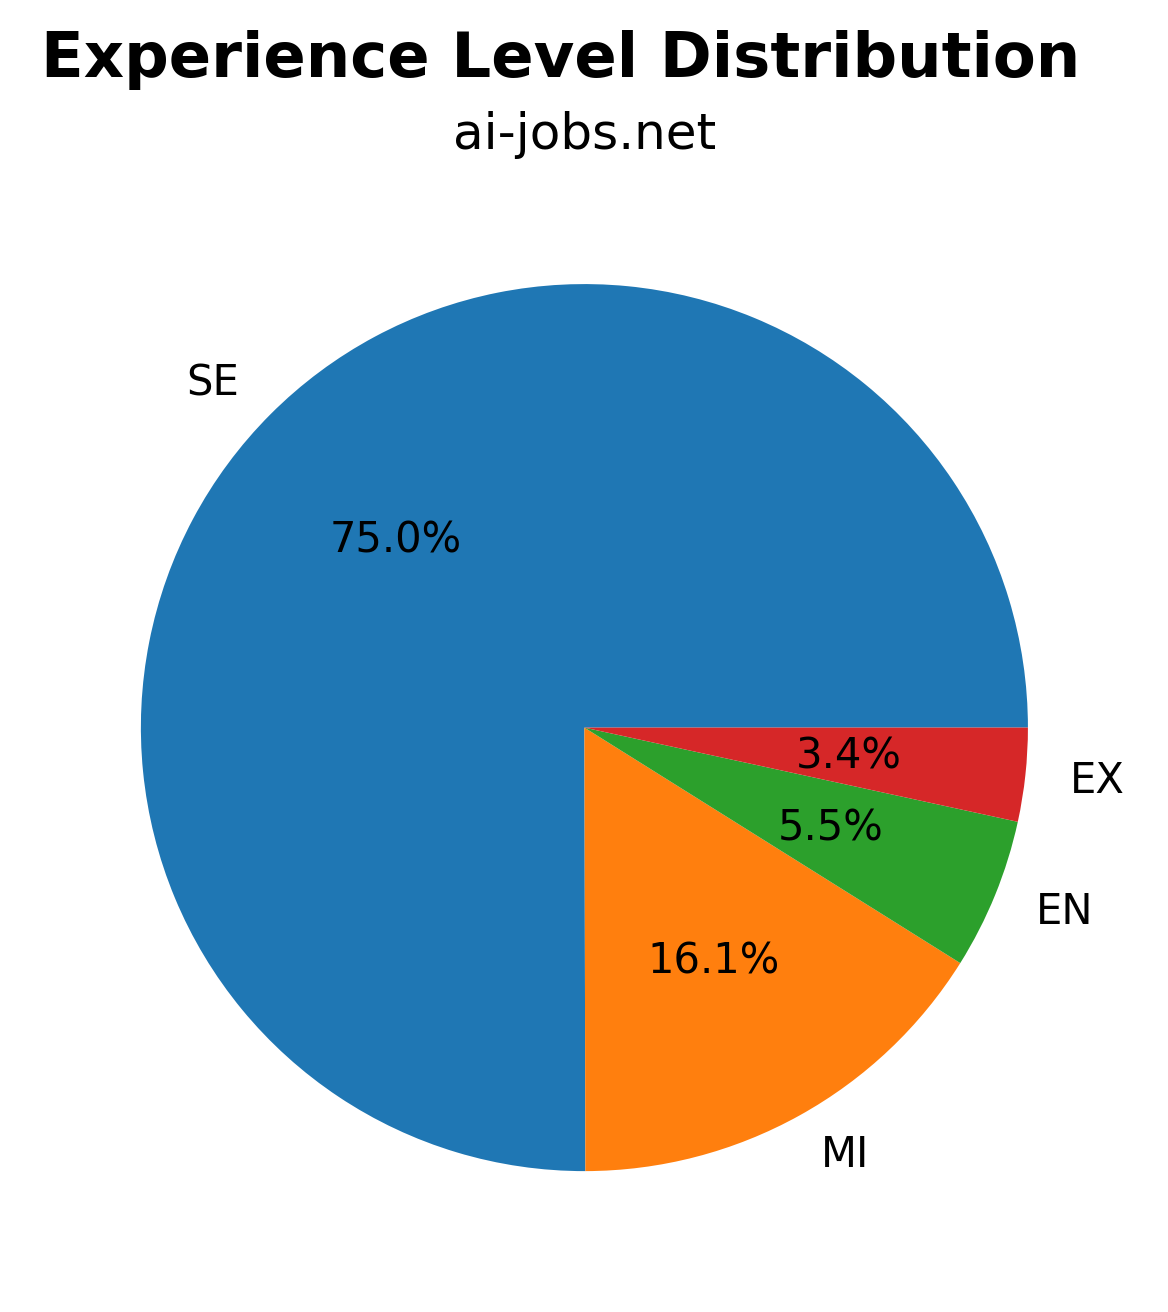
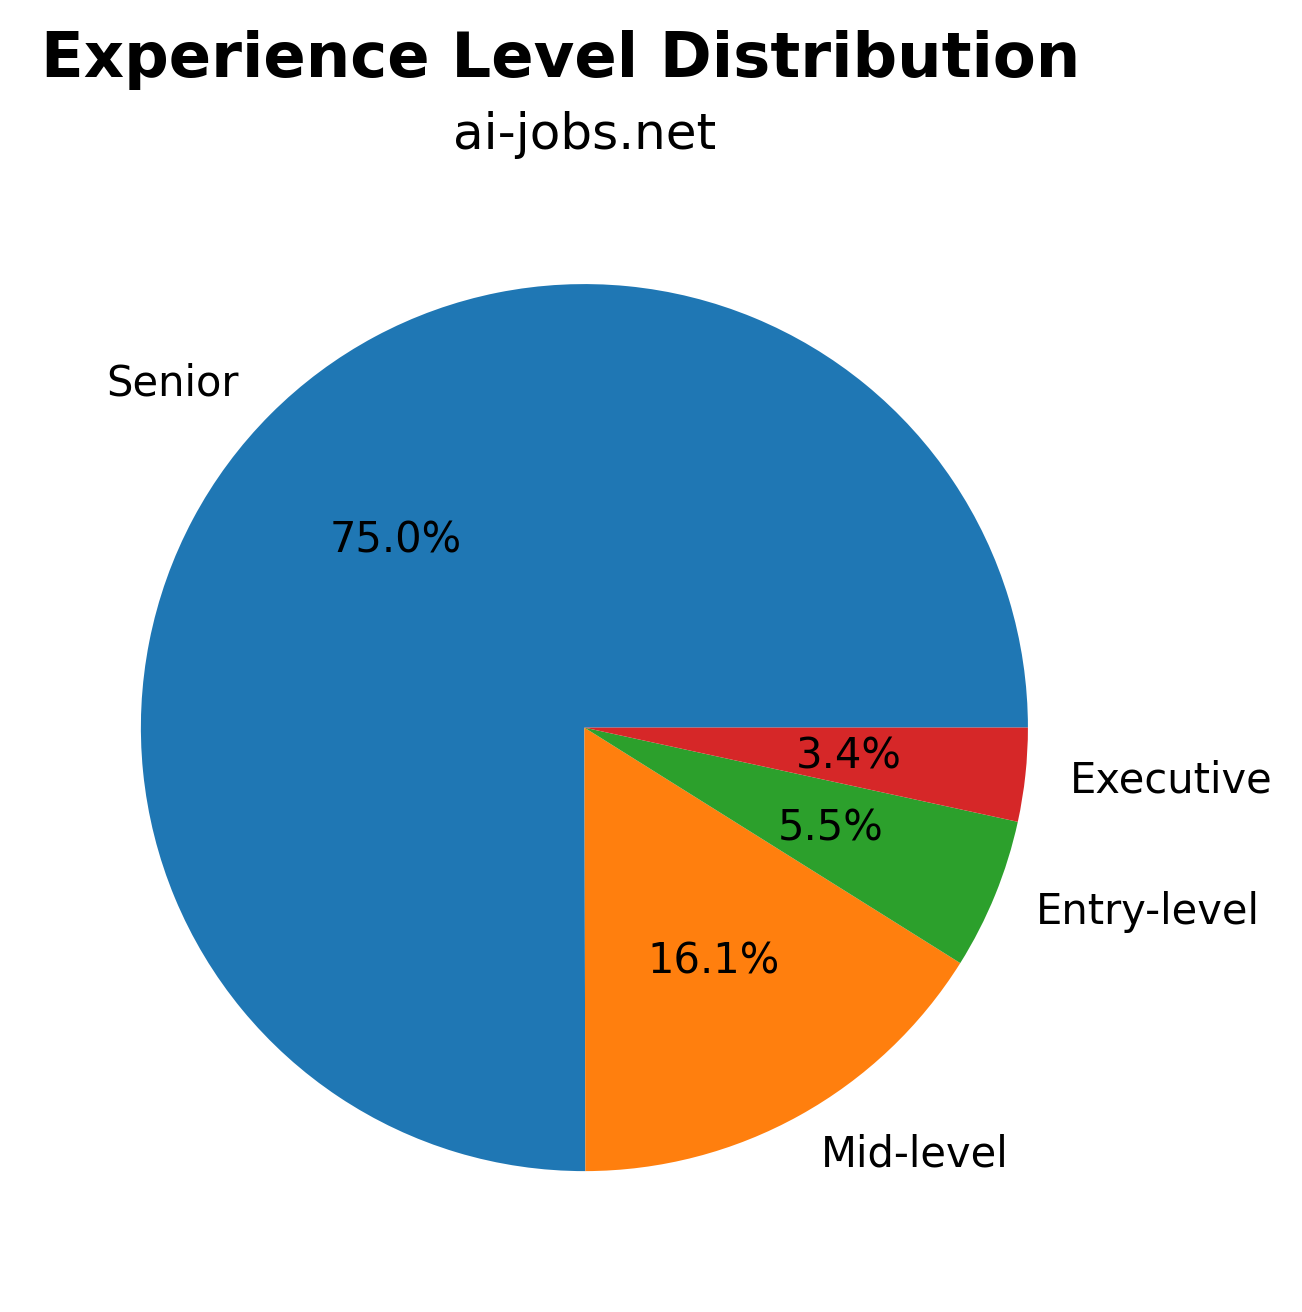
Add changable title

diff --git a/main.py b/main.py
@@ -9,6 +9,7 @@ from money_per_experience_full_time import money_per_experience_full_time_plot
 from salary_increase_absolut_numbers_line import save_salary_increase_absolut_numbers_line_plot
 from salary_increase_absolut_numbers_scatter import save_salary_increase_absolut_numbers_scatter_plot
 from salary_increase_percentage_lines import save_salary_increase_percentage_lines_plot
+from salary_increase_percentage_scatter import save_salary_increase_percentage_scatter_plot
 
 data = us_filtered_data_with_others()
 filename = 'pngs/us_experience_distribution.png'
@@ -16,7 +17,7 @@ save_experience_distribution_plot(data, filename)
 
 data = non_us_filtered_data_with_others()
 filename = 'pngs/non_us_experience_distribution.png'
-save_experience_distribution_plot(data, filename)
+save_experience_distribution_plot(data, filename, 'Stichproben')
 
 data = us_filtered_data_with_others()
 filename = 'pngs/us_job_title_distribution.png'
@@ -24,7 +25,7 @@ save_job_title_distribution_plot(data, filename)
 
 data = non_us_filtered_data_with_others()
 filename = 'pngs/non_us_job_title_distribution.png'
-save_job_title_distribution_plot(data, filename)
+save_job_title_distribution_plot(data, filename, 'Stichproben')
 
 data = us_filtered_data()
 filename = 'pngs/us_money_per_experience_full_time.png'
@@ -32,7 +33,7 @@ money_per_experience_full_time_plot(data, filename)
 
 data = non_us_filtered_data()
 filename = 'pngs/non_us_money_per_experience_full_time.png'
-money_per_experience_full_time_plot(data, filename)
+money_per_experience_full_time_plot(data, filename, 'Stichproben')
 
 data = us_filtered_data_with_others()
 filename = 'pngs/us_salary_increase_absolut_numbers_line.png'
@@ -40,7 +41,7 @@ save_salary_increase_absolut_numbers_line_plot(data, filename)
 
 data = non_us_filtered_data_with_others()
 filename = 'pngs/non_us_salary_increase_absolut_numbers_line.png'
-save_salary_increase_absolut_numbers_line_plot(data, filename)
+save_salary_increase_absolut_numbers_line_plot(data, filename, 'Stichproben')
 
 data = us_filtered_data_with_others()
 filename = 'pngs/us_salary_increase_absolut_numbers_scatter.png'
@@ -48,7 +49,7 @@ save_salary_increase_absolut_numbers_scatter_plot(data, filename)
 
 data = non_us_filtered_data_with_others()
 filename = 'pngs/non_us_salary_increase_absolut_numbers_scatter.png'
-save_salary_increase_absolut_numbers_scatter_plot(data, filename)
+save_salary_increase_absolut_numbers_scatter_plot(data, filename, 'Stichproben')
 
 data = us_filtered_data_with_others()
 filename = 'pngs/us_salary_increase_percentage_lines.png'
@@ -56,13 +57,12 @@ save_salary_increase_percentage_lines_plot(data, filename)
 
 data = non_us_filtered_data_with_others()
 filename = 'pngs/non_us_salary_increase_percentage_lines.png'
-save_salary_increase_percentage_lines_plot(data, filename)
+save_salary_increase_percentage_lines_plot(data, filename, 'Stichproben')
 
 data = us_filtered_data_with_others()
 filename = 'pngs/us_salary_increase_percentage_scatter.png'
-save_salary_increase_absolut_numbers_line_plot(data, filename)
+save_salary_increase_percentage_scatter_plot(data, filename)
 
 data = non_us_filtered_data_with_others()
 filename = 'pngs/non_us_salary_increase_percentage_scatter.png'
-save_salary_increase_absolut_numbers_line_plot(data, filename)
-
+save_salary_increase_percentage_scatter_plot(data, filename, 'Stichproben')

diff --git a/experience_level_distribution.py b/experience_level_distribution.py
@@ -1,9 +1,8 @@
 import pandas as pd
-import re
 import matplotlib.pyplot as plt
 
 
-def save_experience_distribution_plot(data, filename):
+def save_experience_distribution_plot(data, filename, title='ai-jobs.net'):
     plt.figure()
 
     # Calculate the experience level percentages
@@ -14,15 +13,24 @@ def save_experience_distribution_plot(data, filename):
     # Sort experience levels by percentage in descending order
     sorted_experience_levels = experience_percentages.sort_values(ascending=False)
 
-    # Calculate the percentage labels for the pie chart
-    percent_labels = [f'{level}' for level, percentage in zip(sorted_experience_levels.index, sorted_experience_levels)]
+    # Define the mapping for experience level categories
+    mapping = {
+        "SE": "Senior",
+        "EX": "Executive",
+        "EN": "Entry-level",
+        "MI": "Mid-level"
+    }
+
+    # Map the experience level categories to the desired labels
+    percent_labels = [mapping.get(level, level) for level in sorted_experience_levels.index]
 
     # Create the pie chart
     plt.pie(sorted_experience_levels, labels=percent_labels, autopct=lambda pct: f'{pct:.1f}%')
 
     # Set the title and subtitle
-    plt.title('ai-jobs.net', fontsize=12)
+    plt.title(title, fontsize=12)
     plt.suptitle('Experience Level Distribution', fontsize=15, fontweight='bold')  # Adjust fontsize, fontweight, and y position as needed
 
     # Save the chart as PNG file
     plt.savefig(filename, dpi=300, bbox_inches='tight')
+

diff --git a/salary_increase_percentage_scatter.py b/salary_increase_percentage_scatter.py
@@ -4,7 +4,7 @@ import matplotlib.pyplot as plt
 from adjustText import adjust_text
 
 
-def save_salary_increase_percentage_scatter_plot(data, filename):
+def save_salary_increase_percentage_scatter_plot(data, filename, title='ai-jobs.net'):
     plt.figure()
 
     # Calculate the average salary for each year and job title
@@ -28,7 +28,7 @@ def save_salary_increase_percentage_scatter_plot(data, filename):
     # Set the labels and title
     plt.xlabel('Year', fontsize=14)
     plt.ylabel('Salary Increase Percentage', fontsize=14)
-    plt.title('ai-jobs.net', fontsize=12)
+    plt.title(title, fontsize=12)
     plt.suptitle('Salary Increase Percentage per Year by Job Title', fontsize=15,
                  fontweight='bold')  # Adjust fontsize, fontweight, and y position as needed
 
@@ -43,3 +43,4 @@ def save_salary_increase_percentage_scatter_plot(data, filename):
 
     # Save the chart as PNG file
     plt.savefig(filename, dpi=300, bbox_inches='tight')
+

diff --git a/salary_increase_absolut_numbers_scatter.py b/salary_increase_absolut_numbers_scatter.py
@@ -3,7 +3,7 @@ import re
 import matplotlib.pyplot as plt
 from adjustText import adjust_text
 
-def save_salary_increase_absolut_numbers_scatter_plot(data, filename):
+def save_salary_increase_absolut_numbers_scatter_plot(data, filename, title='ai-jobs.net'):
     plt.figure()
 
     # Calculate the average salary for each year and job title
@@ -36,7 +36,7 @@ def save_salary_increase_absolut_numbers_scatter_plot(data, filename):
     # Set the labels and title
     plt.xlabel('Year', fontsize=14)
     plt.ylabel('Salary Increase (USD)', fontsize=14)
-    plt.title('ai-jobs.net', fontsize=12)
+    plt.title(title, fontsize=12)
     plt.suptitle('Salary Increase per Year by Job Title', fontsize=15, fontweight='bold')  # Adjust fontsize, fontweight, and y position as needed
 
     # Set the X-axis ticks to one year intervals

diff --git a/salary_increase_absolut_numbers_line.py b/salary_increase_absolut_numbers_line.py
@@ -3,7 +3,7 @@ import re
 import matplotlib.pyplot as plt
 from adjustText import adjust_text
 
-def save_salary_increase_absolut_numbers_line_plot(data, filename):
+def save_salary_increase_absolut_numbers_line_plot(data, filename, title='ai-jobs.net'):
     plt.figure()
 
     # Calculate the average salary for each year and job title
@@ -36,7 +36,7 @@ def save_salary_increase_absolut_numbers_line_plot(data, filename):
     # Set the labels and title
     plt.xlabel('Year', fontsize=14)
     plt.ylabel('Salary Increase (USD)', fontsize=14)
-    plt.title('ai-jobs.net', fontsize=12)
+    plt.title(title, fontsize=12)
     plt.suptitle('Salary Increase per Year by Job Title', fontsize=15, fontweight='bold')  # Adjust fontsize, fontweight, and y position as needed
 
     # Set the X-axis ticks to one year intervals

diff --git a/salary_increase_percentage_lines.py b/salary_increase_percentage_lines.py
@@ -3,7 +3,7 @@ import re
 import matplotlib.pyplot as plt
 from adjustText import adjust_text
 
-def save_salary_increase_percentage_lines_plot(data, filename):
+def save_salary_increase_percentage_lines_plot(data, filename, title='ai-jobs.net'):
     plt.figure()
 
     # Calculate the average salary for each year and job title
@@ -27,7 +27,7 @@ def save_salary_increase_percentage_lines_plot(data, filename):
     # Set the labels and title
     plt.xlabel('Year', fontsize=14)
     plt.ylabel('Salary Increase Percentage', fontsize=14)
-    plt.title('ai-jobs.net', fontsize=12)
+    plt.title(title, fontsize=12)
     plt.suptitle('Salary Increase Percentage per Year by Job Title', fontsize=15,
                  fontweight='bold')  # Adjust fontsize, fontweight, and y position as needed
 

diff --git a/money_per_experience_full_time.py b/money_per_experience_full_time.py
@@ -2,7 +2,7 @@ import pandas as pd
 import matplotlib.pyplot as plt
 
 
-def money_per_experience_full_time_plot(data, filename):
+def money_per_experience_full_time_plot(data, filename, title='ai-jobs.net'):
     plt.figure()
 
     # Define the desired order of experience levels
@@ -20,7 +20,7 @@ def money_per_experience_full_time_plot(data, filename):
     # Set the labels and title
     plt.xlabel('Year')
     plt.ylabel('Average Salary')
-    plt.title('ai-jobs.net', fontsize=12)
+    plt.title(title, fontsize=12)
     plt.suptitle('Full Time Salaries by Experience Level for Each Year', fontsize=15, fontweight='bold')  # Adjust fontsize, fontweight, and y position as needed
 
     # Add labels for the bars

diff --git a/job_title_distribution.py b/job_title_distribution.py
@@ -3,7 +3,7 @@ import re
 import matplotlib.pyplot as plt
 
 
-def save_job_title_distribution_plot(data, filename):
+def save_job_title_distribution_plot(data, filename, title='ai-jobs.net'):
     plt.figure()
 
     # Calculate the job title percentages
@@ -23,7 +23,7 @@ def save_job_title_distribution_plot(data, filename):
     plt.pie(sorted_job_titles, labels=percent_labels, autopct=lambda pct: f'{pct:.1f}%')
 
     # Set the title
-    plt.title('ai-jobs.net', fontsize=12)
+    plt.title(title, fontsize=12)
     plt.suptitle('Job Title Distribution', fontsize=15,
                  fontweight='bold')  # Adjust fontsize, fontweight, and y position as needed
 
